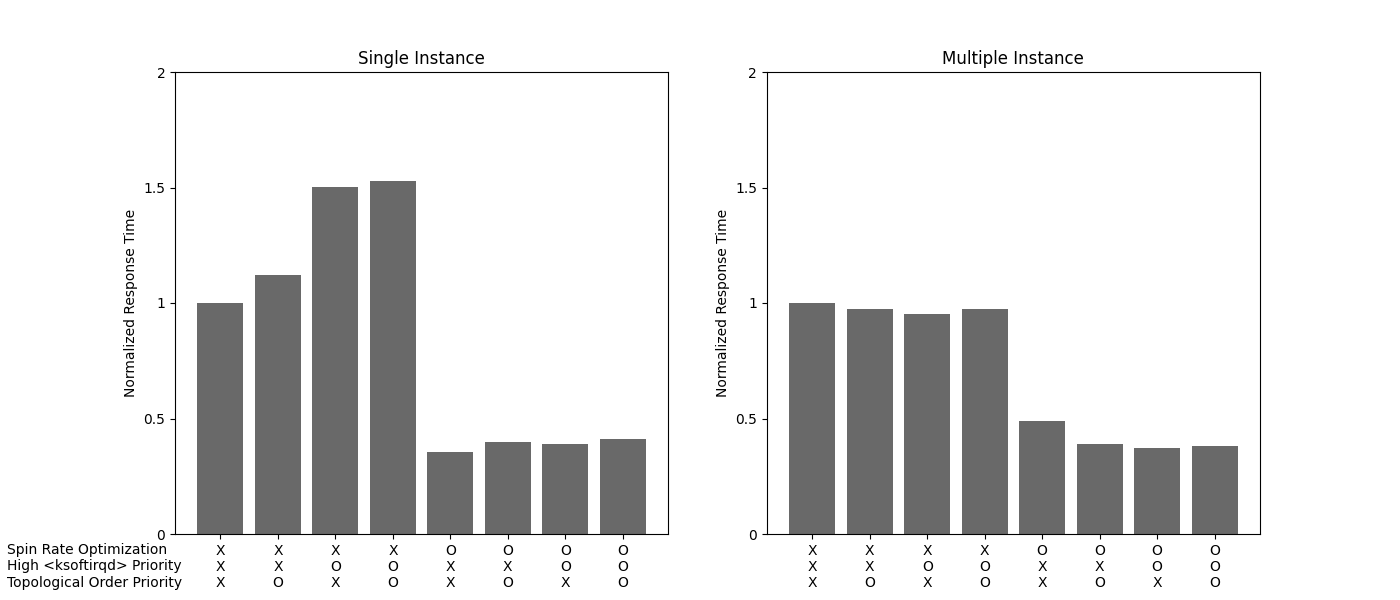
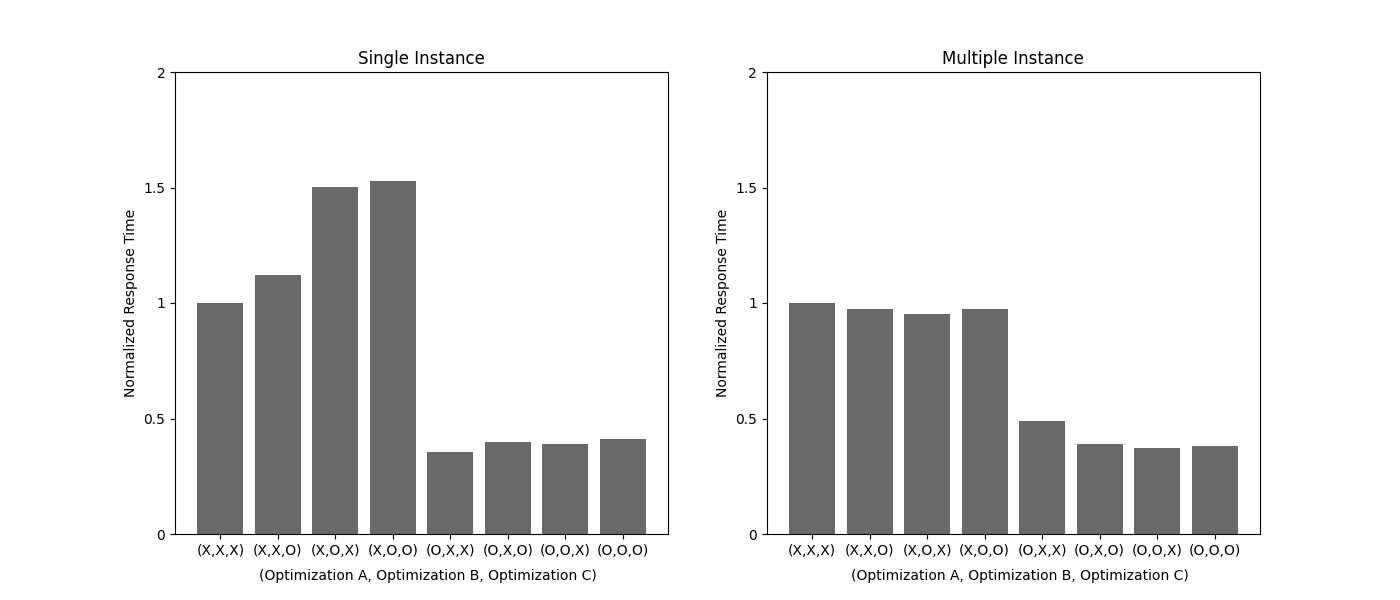
update visualizer

Changed region(s): [[0.5529, 0.9, 0.8907, 0.99], [0.1536, 0.9, 0.4607, 0.99], [0.0, 0.9, 0.1229, 0.99]]

diff --git a/scripts/result_visualizer.py b/scripts/result_visualizer.py
@@ -36,8 +36,10 @@ def list_average(lst):
 # ( , O3, O2, O2_O3, O1, O1_O3, O1_O2, O1_O2_O3)
 def create_histogram_value(save_path, single_instance_values, multi_instance_values):
     x = np.arange(8)
-    xticks = ["X\nX\nX", "X\nX\nO", "X\nO\nX", "X\nO\nO", \
-              "O\nX\nX", "O\nX\nO", "O\nO\nX", "O\nO\nO"]
+    # xticks = ["X\nX\nX", "X\nX\nO", "X\nO\nX", "X\nO\nO", \
+    #           "O\nX\nX", "O\nX\nO", "O\nO\nX", "O\nO\nO"]
+    xticks = ["(X,X,X)", "(X,X,O)", "(X,O,X)", "(X,O,O)", \
+              "(O,X,X)", "(O,X,O)", "(O,O,X)", "(O,O,O)"]
     yticks = ["0", "0.5", "1", "1.5", "2"]
 
     fig, (ax0, ax1) = plt.subplots(ncols=2, figsize=(14,6))
@@ -60,69 +62,84 @@ def create_histogram_value(save_path, single_instance_values, multi_instance_val
     ax1.set_yticklabels(yticks)
     ax1.set_ylim(bottom = 0.0, top = 2.0)
 
-    ax0.set_xlabel("Spin Rate Optimization\nHigh <ksoftirqd> Priority\nTopological Order Priority", fontsize = 10, loc="left")
-    ax0.xaxis.set_label_coords(-0.34,-0.02)
+    ax0.set_xlabel("(Optimization A, Optimization B, Optimization C)", fontsize = 10, loc="left")
+    ax0.xaxis.set_label_coords(0.17,-0.075)
+
+    ax1.set_xlabel("(Optimization A, Optimization B, Optimization C)", fontsize = 10, loc="left")
+    ax1.xaxis.set_label_coords(0.17,-0.075)
+
+    print(single_instance_values)
+    print(multi_instance_values)
 
     plt.savefig(save_path)
 
 # (O1, O1_O3, O1_O2, O1_O2_O3)
-def create_histogram_count(save_path, single_instance_values, multi_instance_values):
-    labels = ["single-instance", "multi-instance"]
-    O1_count = [0, 0]
-    O1_O3_count = [0, 0]
-    O1_O2_count = [0, 0]
-    O1_O2_O3_count = [0, 0]
+def create_histogram_count(save_path, single_instance_values, multi_instance_values, real_length):
+    labels = ["0.12", "0.16", "0.20", "0.24", "0.28"]
+    O1_count = [0, 0, 0, 0, 0]
+    O1_O3_count = [0, 0, 0, 0, 0]
+    O1_O2_count = [0, 0, 0, 0, 0]
+    O1_O2_O3_count = [0, 0, 0, 0, 0]
 
-    for i in range(len(single_instance_values[0])):
-        if single_instance_values[0][i] < single_instance_values[1][i] and \
-            single_instance_values[0][i] < single_instance_values[2][i] and \
-            single_instance_values[0][i] < single_instance_values[3][i]:
-            O1_count[0] += 1
-        elif single_instance_values[1][i] < single_instance_values[0][i] and \
-            single_instance_values[1][i] < single_instance_values[2][i] and \
-            single_instance_values[1][i] < single_instance_values[3][i]:
-            O1_O3_count[0] += 1
-        elif single_instance_values[2][i] < single_instance_values[0][i] and \
-            single_instance_values[2][i] < single_instance_values[1][i] and \
-            single_instance_values[2][i] < single_instance_values[3][i]:
-            O1_O2_count[0] += 1
-        else:
-            O1_O2_O3_count[0] += 1
+    # for i in range(len(single_instance_values[0])):
+    #     if single_instance_values[0][i] < single_instance_values[1][i] and \
+    #         single_instance_values[0][i] < single_instance_values[2][i] and \
+    #         single_instance_values[0][i] < single_instance_values[3][i]:
+    #         O1_count[0] += 1
+    #     elif single_instance_values[1][i] < single_instance_values[0][i] and \
+    #         single_instance_values[1][i] < single_instance_values[2][i] and \
+    #         single_instance_values[1][i] < single_instance_values[3][i]:
+    #         O1_O3_count[0] += 1
+    #     elif single_instance_values[2][i] < single_instance_values[0][i] and \
+    #         single_instance_values[2][i] < single_instance_values[1][i] and \
+    #         single_instance_values[2][i] < single_instance_values[3][i]:
+    #         O1_O2_count[0] += 1
+    #     else:
+    #         O1_O2_O3_count[0] += 1
     
     for i in range(len(multi_instance_values[0])):
+        idx = int((real_length[i]-0.1) / (0.04))
         if multi_instance_values[0][i] < multi_instance_values[1][i] and \
             multi_instance_values[0][i] < multi_instance_values[2][i] and \
             multi_instance_values[0][i] < multi_instance_values[3][i]:
-            O1_count[1] += 1
+            O1_count[idx] += 1
         elif multi_instance_values[1][i] < multi_instance_values[0][i] and \
             multi_instance_values[1][i] < multi_instance_values[2][i] and \
             multi_instance_values[1][i] < multi_instance_values[3][i]:
-            O1_O3_count[1] += 1
+            O1_O3_count[idx] += 1
         elif multi_instance_values[2][i] < multi_instance_values[0][i] and \
             multi_instance_values[2][i] < multi_instance_values[1][i] and \
             multi_instance_values[2][i] < multi_instance_values[3][i]:
-            O1_O2_count[1] += 1
+            O1_O2_count[idx] += 1
         else:
-            O1_O2_O3_count[1] += 1  
+            O1_O2_O3_count[idx] += 1 
+
+    for i in range(5):
+        cnt = O1_count[i] + O1_O2_count[i] + O1_O3_count[i] + O1_O2_O3_count[i]
+        O1_count[i] = O1_count[i] * 100 / cnt
+        O1_O2_count[i] = O1_O2_count[i] * 100 / cnt
+        O1_O3_count[i] = O1_O3_count[i] * 100 / cnt
+        O1_O2_O3_count[i] = O1_O2_O3_count[i] * 100 / cnt
 
     width = 0.6       # the width of the bars: can also be len(x) sequence
 
     fig, ax = plt.subplots()
 
-    p1 = ax.bar(labels, O1_count, width, bottom=[a + b + c for a, b, c in zip(O1_O3_count, O1_O2_count, O1_O2_O3_count)], \
-            label='spin rate optimization', color='whitesmoke')
-    p2 = ax.bar(labels, O1_O3_count, width, bottom=[a + b for a, b in zip(O1_O2_count, O1_O2_O3_count)], label='spin rate optimization\n+ node priority assignment',\
-            color='lightgrey')
-    p3 = ax.bar(labels, O1_O2_count, width, bottom=O1_O2_O3_count,\
-            label='spin rate optimization\n+ high <ksoftirqd> priority', color='darkgrey')
+    p1 = ax.bar(labels, O1_count, width, bottom=[a + b + c for a, b, c in zip(O1_O2_count, O1_O3_count, O1_O2_O3_count)], \
+            label='A', color='lightgrey')
+    p2 = ax.bar(labels, O1_O2_count, width, bottom=[a + b for a, b in zip(O1_O3_count, O1_O2_O3_count)], label='A + B',\
+            color='darkgray')
+    p3 = ax.bar(labels, O1_O3_count, width, bottom=O1_O2_O3_count,\
+            label='A + C', color='dimgray')
     p4 = ax.bar(labels, O1_O2_O3_count, width, \
-            label='spin rate optimization\n+ high <ksoftirqd> priority\n+ node priority assignment', color='dimgray')
+            label='A + B + C', color='black')
 
+    ax.set_xlabel('Instance Length (s)')
     ax.set_ylabel('Ratio (%)')
     ax.set_title('Best-Performance Settings')
     
     box = ax.get_position()
-    ax.set_position([box.x0, box.y0, box.width * 0.6, box.height])
+    ax.set_position([box.x0, box.y0, box.width * 0.7, box.height])
     
     ax.legend(loc='center left', bbox_to_anchor=(1, 0.5))
 
@@ -158,6 +175,7 @@ if __name__ == "__main__":
     = [], [], [], [], [], [], [] ,[]
 
 
+    real_length = []
     for i in range(dag_num_):
         name = "DAG_" + str(i+1).zfill(3)
         ## Single-Instance Experiment Result
@@ -202,6 +220,8 @@ if __name__ == "__main__":
         multi_instance_O1_max.append(n3/base_max)
         multi_instance_O1_avg.append(n4/base_avg)
 
+        real_length.append(n3)
+
         file_path = result_dir + "multi-instance_4-core_w-ksoftirq-opt/" + name + ".csv"
         n1, n2, n3, n4 =read_data(file_path)
         multi_instance_O2_max.append(n1/base_max)
@@ -223,9 +243,14 @@ if __name__ == "__main__":
         multi_instance_O1_O2_O3_max.append(n3/base_max)
         multi_instance_O1_O2_O3_avg.append(n4/base_avg)
 
+    # res = [i / j for i, j in zip(multi_instance_O1_O2_max, multi_instance_O1_max)]
+    # plt.scatter(real_length, res)
+    # plt.show()
+    # print()
+
     create_histogram_count(parent_dir + "/histogram/4-core_max_count.png", [single_instance_O1_max, single_instance_O1_O3_max, \
                      single_instance_O1_O2_max, single_instance_O1_O2_O3_max], [multi_instance_O1_max, multi_instance_O1_O3_max, \
-                     multi_instance_O1_O2_max, multi_instance_O1_O2_O3_max])
+                     multi_instance_O1_O2_max, multi_instance_O1_O2_O3_max], real_length)
     
     # create_histogram_count(parent_dir + "/histogram/4-core_avg_count.png", [single_instance_O1_avg, single_instance_O1_O3_avg, \
     #                  single_instance_O1_O2_avg, single_instance_O1_O2_O3_avg], [multi_instance_O1_avg, multi_instance_O1_O3_avg, \
